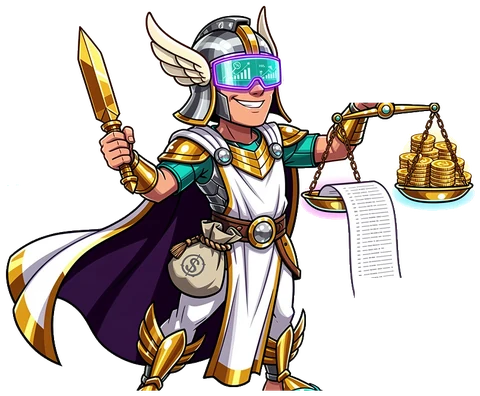
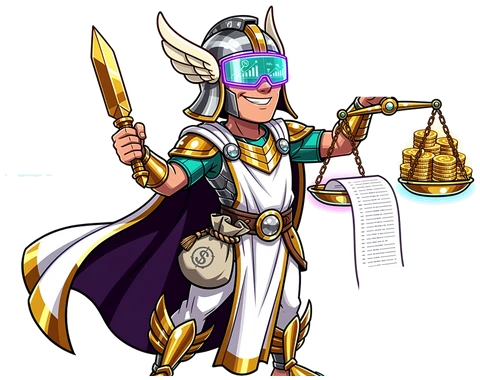
Corrige le detourage de la mascotte (edges decontaminees, plus de halo blanc)

diff --git a/public/index.html b/public/index.html
@@ -878,7 +878,7 @@
       </div>
       <div class="hero-visual" aria-hidden="true">
         <div class="mascot">
-          <img src="https://raw.githubusercontent.com/bba111789/optimus/main/public/mascot.webp" alt="Optimus, la mascotte" width="480" height="396" />
+          <img src="https://raw.githubusercontent.com/bba111789/optimus/main/public/mascot.webp" alt="Optimus, la mascotte" width="480" height="380" />
         </div>
         <div class="mock-card mock-pay">
           <div class="mock-pay-top">